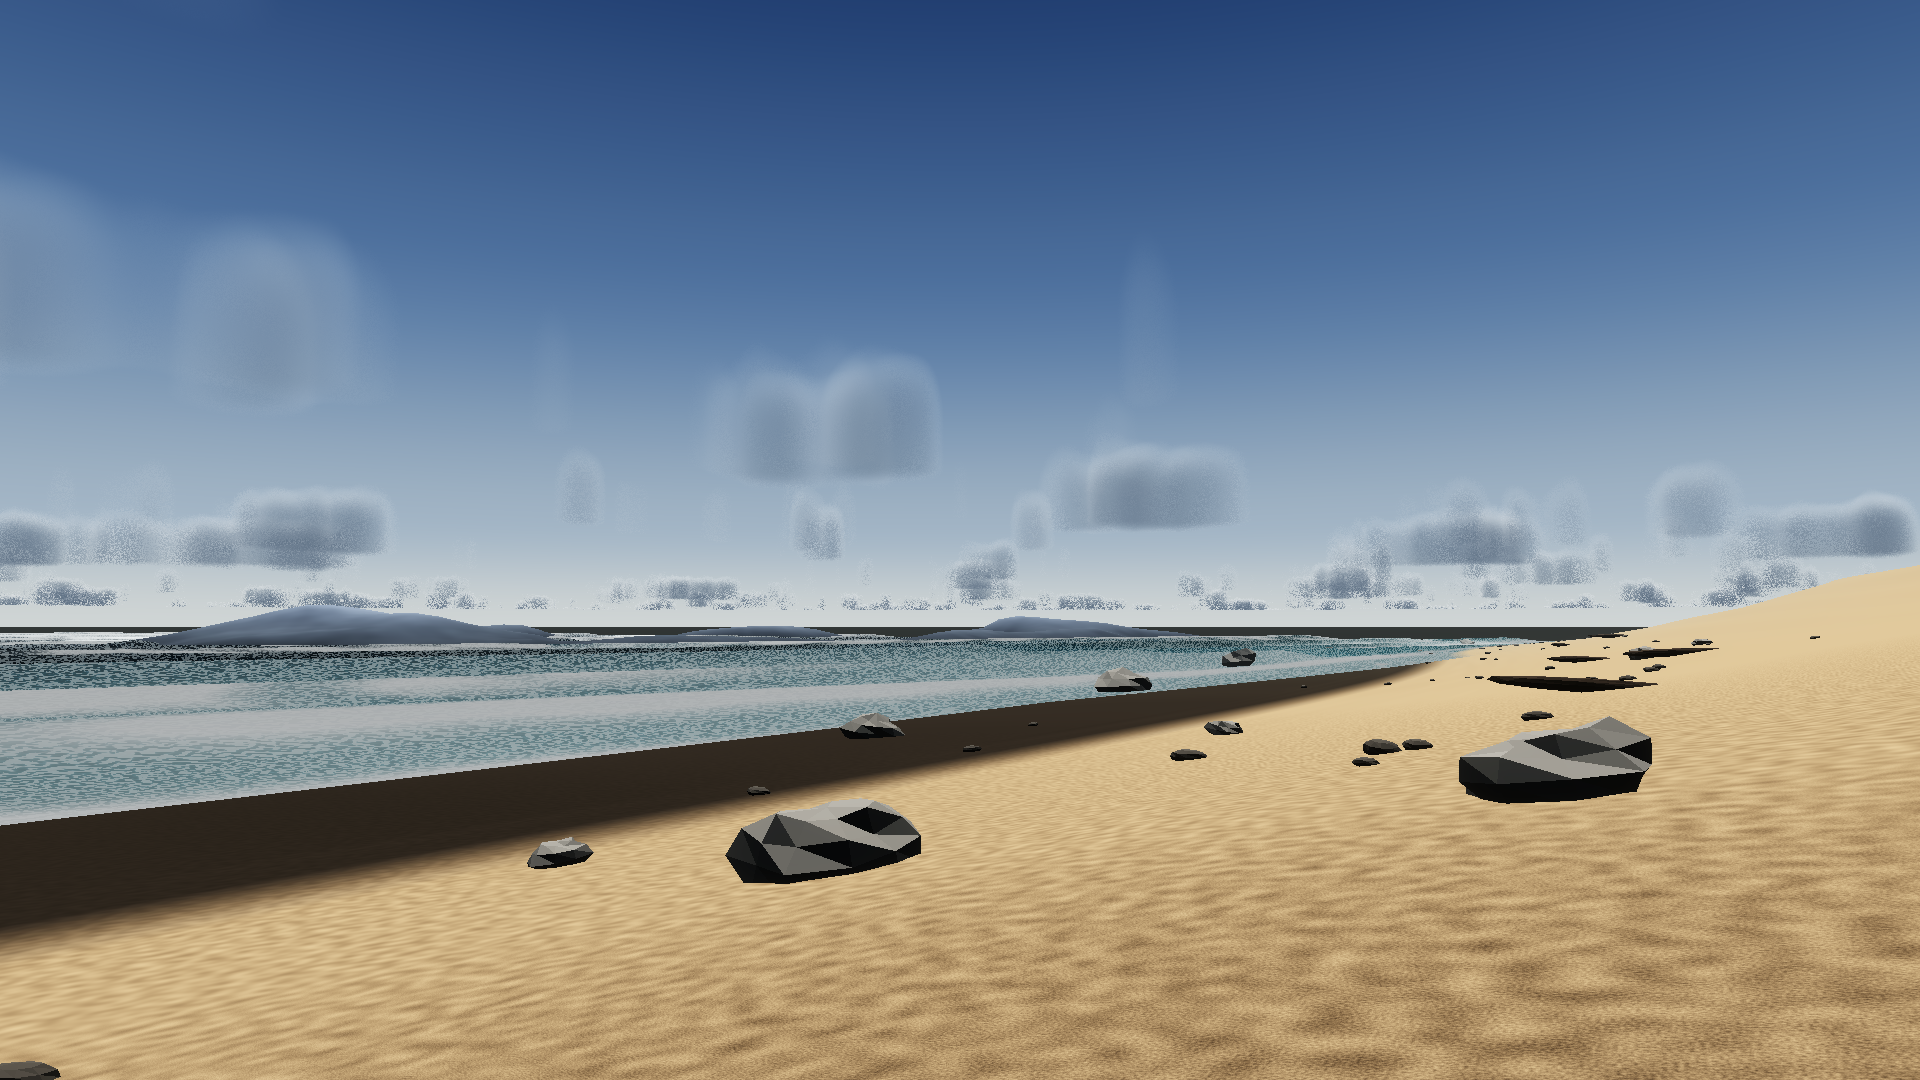
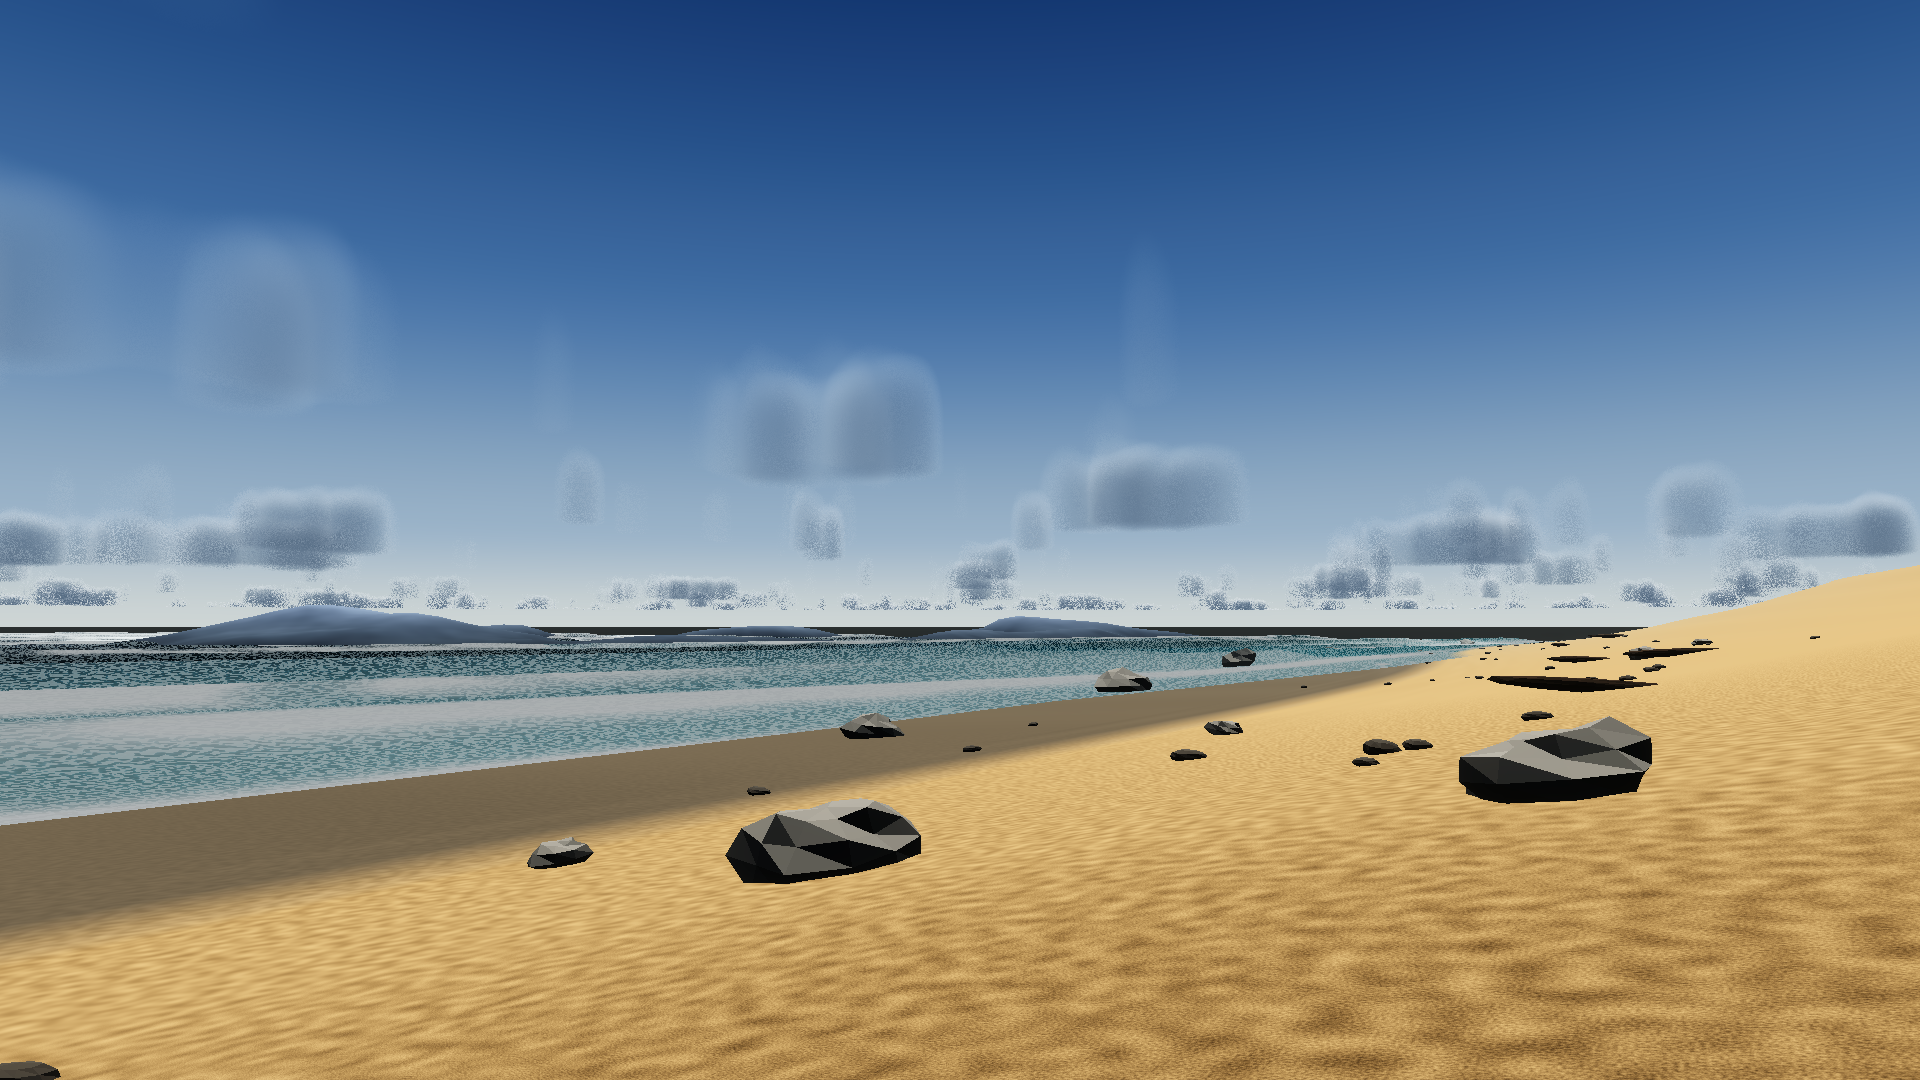
feat(R79): Ocean 调色校准 + 湿沙带修复. ①Volume 档A(曝光-0.30/对比18/饱和-5): 亮度135.1->128.6, 饱和92.4->117.3(参考124.3), 亮度+4.3%/对比-8.4%/饱和-5.6% ②**第二次踩同一个坑**: Ocean Volume 是场景实例, 只写实例重开场景会从 sharedProfile 重建 => R79 改为双写(实例+资产)并 SaveAssetIfDirty ③岸边黑带真因=湿沙 _WetColor(0.17,0.145,0.115) 在ACES下压成近黑, 而湿沙带宽几十米 => 改(0.30,0.26

Changed region(s): [[0.0, 0.5806, 0.7812, 0.8861]]

diff --git a/Assets/Editor/R79Setup.cs b/Assets/Editor/R79Setup.cs
@@ -1,0 +1,69 @@
+// R79Setup.cs — R79：Ocean 调色校准（朝参考三项收敛）
+//
+// 参考（f000060 裁 UI）：亮度 123.3 / 对比 51.2 / 饱和 124.3
+// Ocean 当前：          135.1 / 45.2 / 92.4
+// ⇒ 需要：压亮度、提对比、提饱和。
+// 注意：Ocean 的 Volume 是**场景内实例**（inst=DIFF），改资产文件无效，必须改实例。
+#if UNITY_EDITOR
+using System.IO;
+using UnityEditor;
+using UnityEngine;
+using UnityEngine.Rendering;
+using UnityEngine.Rendering.Universal;
+
+namespace WaterProject.EditorTools
+{
+    public static class R79Setup
+    {
+        static void P(string s)
+            => File.AppendAllText(Path.Combine(Application.dataPath, "../Logs/water_probe.txt"), s);
+
+        static Volume Pick()
+        {
+            foreach (var v in Object.FindObjectsByType<Volume>(FindObjectsSortMode.None))
+                if (v.isGlobal && v.profile != null) return v;
+            return null;
+        }
+
+        static void Apply(float exposure, float contrast, float sat, string tag)
+        {
+            var v = Pick();
+            if (v == null) { P($"R79/{tag} REFUSED: 没有 Global Volume\n"); return; }
+            // ⚠ R57 教训：Volume 可能是"场景实例"，场景重载时会从 sharedProfile(资产) 重建
+            //   ⇒ 只写实例，重开场景就白改。这里**两个都写**。
+            foreach (var prof in new[] { v.profile, v.sharedProfile })
+            {
+                if (prof == null) continue;
+                if (!prof.TryGet<ColorAdjustments>(out var ca)) continue;
+                ca.postExposure.Override(exposure);
+                ca.contrast.Override(contrast);
+                ca.saturation.Override(sat);
+                EditorUtility.SetDirty(prof);
+                if (AssetDatabase.Contains(prof)) AssetDatabase.SaveAssetIfDirty(prof);
+                P($"     写入 {prof.name}\n");
+            }
+            UnityEditor.SceneManagement.EditorSceneManager.MarkSceneDirty(
+                UnityEditor.SceneManagement.EditorSceneManager.GetActiveScene());
+            P($"R79/{tag} 曝光{exposure} 对比{contrast} 饱和{sat}（实例 {v.profile.name}）\n");
+        }
+
+        [MenuItem("Tools/R79/90 档A 曝光-0.30 对比18 饱和-5")]
+        public static void A() => Apply(-0.30f, 18f, -5f, "90");
+
+        [MenuItem("Tools/R79/91 档B 曝光-0.45 对比20 饱和+0")]
+        public static void B() => Apply(-0.45f, 20f, 0f, "91");
+
+        [MenuItem("Tools/R79/92 档C 曝光-0.20 对比16 饱和-10")]
+        public static void C() => Apply(-0.20f, 16f, -10f, "92");
+
+        [MenuItem("Tools/R79/99 探针")]
+        public static void Probe()
+        {
+            var v = Pick();
+            if (v == null) { P("R79/99 没有 Volume\n"); return; }
+            if (v.profile.TryGet<ColorAdjustments>(out var ca))
+                P($"R79 PROBE {v.profile.name} exp={ca.postExposure.value:F2} contrast={ca.contrast.value:F1} sat={ca.saturation.value:F1}\n");
+        }
+    }
+}
+#endif

diff --git a/Docs/学习路径与知识库/检测报告/R56_场景画质与采集口径.md b/Docs/学习路径与知识库/检测报告/R56_场景画质与采集口径.md
@@ -399,3 +399,27 @@ Ocean 基线更新：**140.4 / 41.2 / 89.1 / 近黑 0.62**。
 （`Docs/screenshots/refcmp_*.png`）并打印四项指标 + SSIM。
 注意：SSIM 低不代表做错 —— 参考片只有一段海岸，Islet/Ocean 对的是俯视段，
 Main/Pond/Pool 对的是水面段，**内容本来就不同**，只有亮度/对比/饱和三项可比。
+
+---
+
+## R79：Ocean 调色校准 + 湿沙带修复
+
+### ① 调色（三档扫描，双写实例+资产）
+
+| 参数 | 亮度 | 对比 | 饱和 |
+| --- | --- | --- | --- |
+| 原（−0.18 / 12 / −22） | 135.1 | 45.2 | 92.4 |
+| **档A（−0.30 / 18 / −5）** | **128.6** | **46.9** | **117.3** |
+| 参考 | 123.3 | 51.2 | 124.3 |
+
+⇒ 亮度 +4.3%、对比 −8.4%、饱和 −5.6%（原饱和差 −26%）。
+
+**踩坑（第二次）**：Ocean 的 Volume 是**场景实例**，只写实例、重开场景就从 `sharedProfile` 重建 ⇒ 改动白做。
+现在 `R79` **两个都写**（并且 `SaveAssetIfDirty`）。
+
+### ② 岸边那条"黑带" = 湿沙
+
+`_WetColor` 原值 `(0.17,0.145,0.115)`，在 ACES 下压成近黑，而湿沙带宽几十米 ⇒ 一条**黑地毯**。
+改为 `(0.30,0.265,0.215)`（湿沙该有的颜色）后，岸边读作"潮湿的沙"，不再是泥。
+
+Ocean 新基线：**132.1 / 42.7 / 115.7 / 近黑 0.79**。
